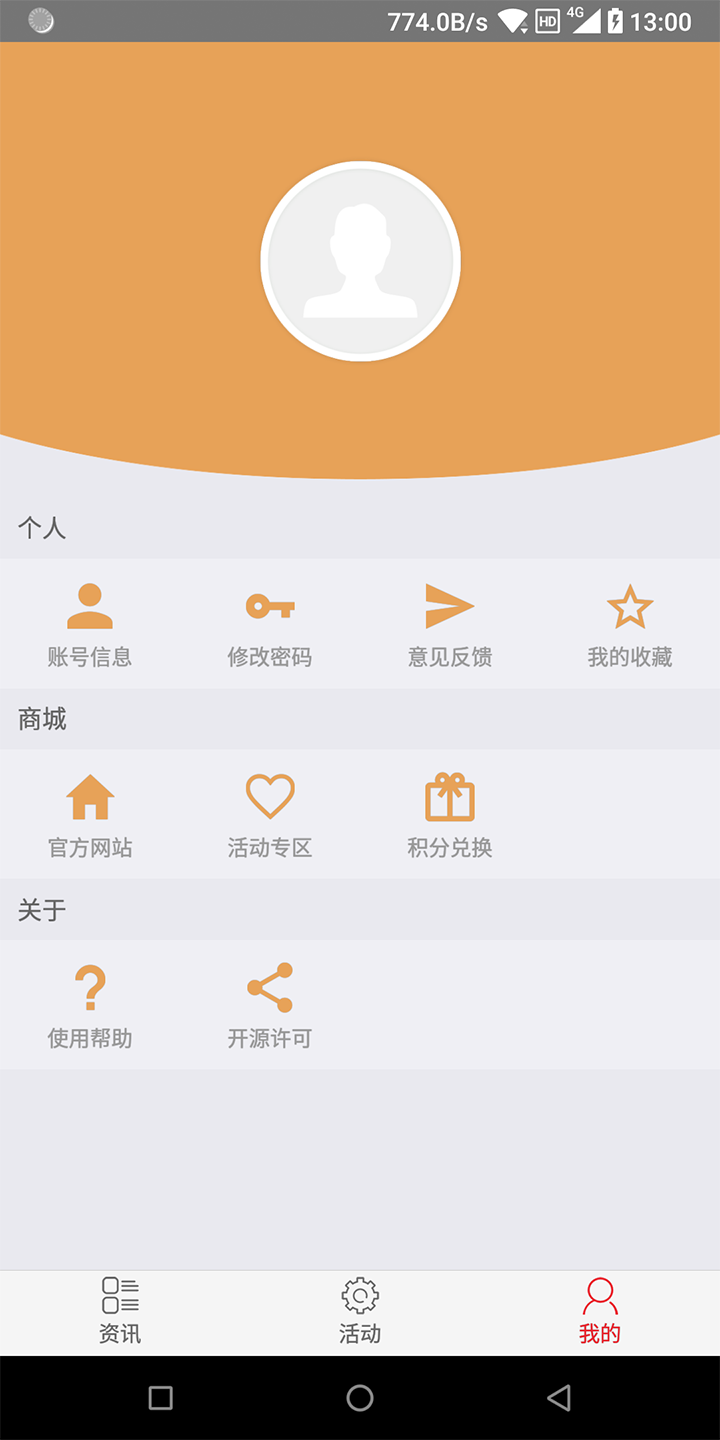
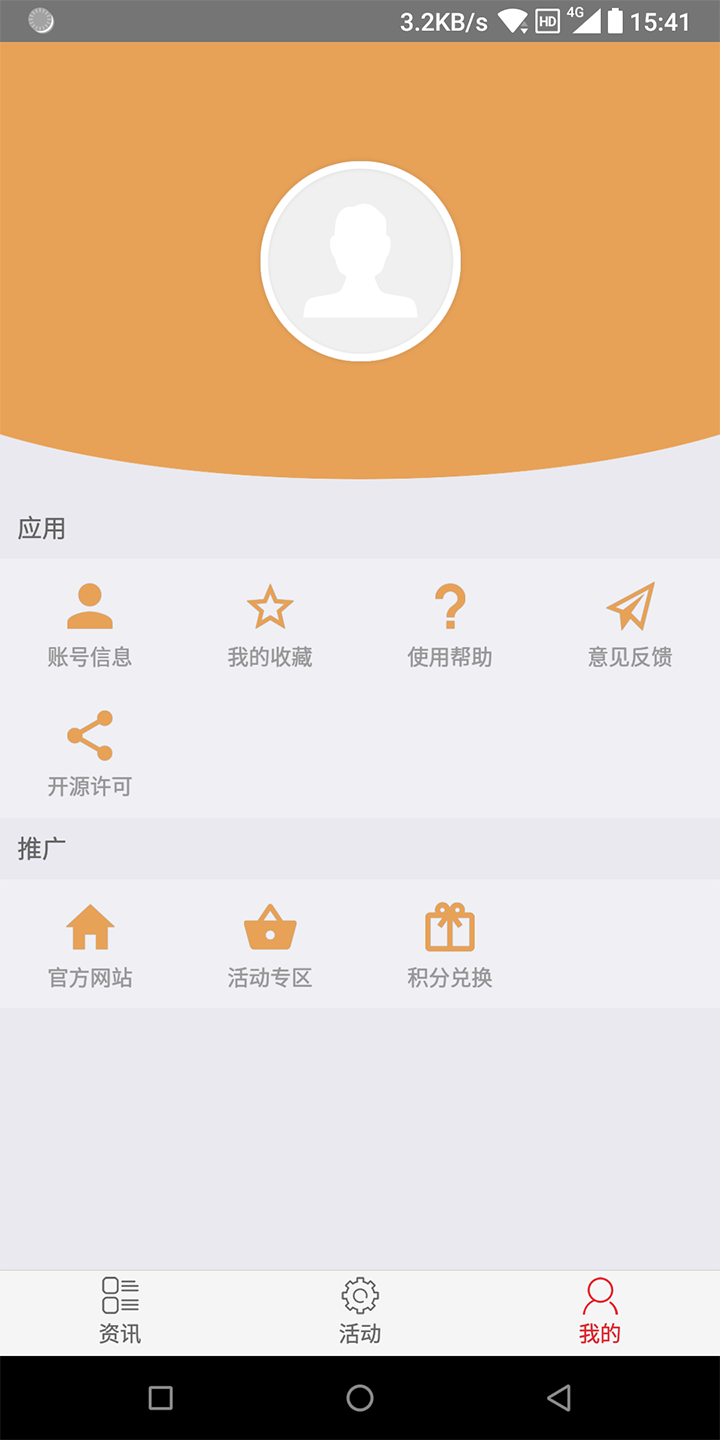
More page

diff --git a/app/Account.js b/app/Account.js
@@ -1,5 +1,13 @@
 import React from 'react';
-import { View, Text } from 'react-native';
+import {
+    View,
+    TouchableOpacity,
+    Text,
+    Image,
+    Alert,
+    StyleSheet
+} from 'react-native';
+import Icon from 'react-native-vector-icons/EvilIcons';
 
 export default class Detail extends React.Component {
     static navigationOptions = ({ navigation }) => {
@@ -14,7 +22,96 @@ export default class Detail extends React.Component {
 
     render() {
         return(
-            <View></View>
+            <View style={{flex: 1, backgroundColor: 'EFEFF4', marginTop: 25}}>
+                <TouchableOpacity style={styles.container}>
+                    <Text style={styles.containerLeft}>头像</Text>
+                    <View style={styles.containerRight}>
+                        <Image source={require('../images/avatar.png')} style={styles.containerImage}/>
+                    </View>
+                </TouchableOpacity>
+                <TouchableOpacity style={styles.container}>
+                    <Text style={styles.containerLeft}>昵称</Text>
+                    <Text style={styles.containerRight}>Null</Text>
+                </TouchableOpacity>
+                <TouchableOpacity style={styles.container}>
+                    <Text style={styles.containerLeft}>手机号</Text>
+                    <Text style={styles.containerRight}>158****1234</Text>
+                </TouchableOpacity>
+                <TouchableOpacity style={[styles.container, {marginTop: 20}]}>
+                    <Text style={styles.containerLeft}>性别</Text>
+                    <Text style={styles.containerRight}>保密</Text>
+                </TouchableOpacity>
+                <TouchableOpacity style={styles.container}>
+                    <Text style={styles.containerLeft}>生日</Text>
+                    <Text style={styles.containerRight}>1970年1月1日</Text>
+                </TouchableOpacity>
+                <TouchableOpacity style={styles.container}>
+                    <Text style={styles.containerLeft}>地址</Text>
+                    <Text numberOfLines={1} style={styles.containerRight}>未填写</Text>
+                </TouchableOpacity>
+                <TouchableOpacity style={[styles.container, {marginTop: 20}]}>
+                    <Text style={styles.containerLeft}>修改密码</Text>
+                    <Icon name="chevron-right" style={styles.containerIcon}/>
+                </TouchableOpacity>
+                <TouchableOpacity activeOpacity={0.8} style={styles.containerBottom} onPress={()=>this.logout()}>
+                    <Text style={styles.containerLeft}>退出登录</Text>
+                </TouchableOpacity>
+            </View>
         )
     }
+
+    // 退出登录
+    logout() {
+        Alert.alert('提示', '是否退出登录？', [
+            { text: '取消', onPress: () => {} },
+            { text: '确定', onPress: () => { this.props.navigation.navigate('Auth'); } }
+        ], {
+            cancelable: true
+        });
+    }
 }
+
+const styles = StyleSheet.create({
+    container: {
+        flexDirection: 'row',
+        alignItems: 'center',
+        paddingLeft: 10,
+        paddingRight: 10,
+        paddingTop: 15,
+        paddingBottom: 15,
+        backgroundColor: 'white',
+        marginBottom: 0.5 // 伪分隔线
+    },
+    containerLeft: {
+        flex: 1
+    },
+    containerRight: {
+        flex: 2,
+        textAlign: 'right',
+        flexDirection: 'row-reverse',
+        color: '#999'
+    },
+    containerImage: {
+        width: 60,
+        height: 60,
+    },
+    containerIcon: {
+        fontSize: 24,
+        color: '#999'
+    },
+    containerBottom: {
+        position: 'absolute',
+        bottom: 0,
+        justifyContent: 'center',
+        alignItems: 'center',
+        width: '100%',
+        paddingLeft: 10,
+        paddingRight: 10,
+        paddingTop: 15,
+        paddingBottom: 15,
+        backgroundColor: 'white',
+        fontWeight: 'bold',
+        borderTopColor: '#CECECE',
+        borderTopWidth: 0.5
+    }
+});

diff --git a/app/Login.js b/app/Login.js
@@ -7,7 +7,6 @@ import {
   Text,
   TextInput,
   TouchableOpacity,
-  ActivityIndicator,
   StyleSheet
 } from 'react-native';
 import Toast, { DURATION } from 'react-native-easy-toast'; // 目前这个库无法避免底部Toast被软键盘遮挡的问题
@@ -23,8 +22,7 @@ export default class Login extends Component {
     super(props);
     this.state = {
         username: "",
-        password: "",
-        isLogging: false
+        password: ""
     }
   }
 
@@ -32,10 +30,7 @@ export default class Login extends Component {
     return (
       <View style={styles.container}>
         {/*组件内部的注释方式*/}
-        <AnimeImage/>
-        <View style={{marginTop: 10, height: 60}}>
-          {this.state.isLogging? (<ActivityIndicator size='large'/>) : (null)}
-        </View>
+        <AnimeImage ref="animeImage"/>
         <TextInput
           placeholder="请输入用户名"
           clearButtonMode="while-editing"
@@ -87,12 +82,12 @@ export default class Login extends Component {
     if(this.state.password == '') {
         return this.refs.toast.show("请输入密码");
     }
-    this.setState({
-      isLogging: true
-    });
-    // 保存用户名密码
+
     AsyncStorageUtils.save("USERNAME", this.state.username);
     AsyncStorageUtils.save("PASSWORD", this.state.password);
+
+    // 正在登录
+    this.refs.animeImage.logging();
     // 跳转到主界面
     this.timer = setTimeout(() => {
       this.props.navigation.navigate('Main');
@@ -100,12 +95,12 @@ export default class Login extends Component {
   }
 
   randomTime() {
-    return Math.random() * 3 + 500; // 500~1500
+    return Math.random() * 1000 + 1000; // 1000~2000
   }
 
   componentDidMount() {
-    let that = this;
     // 获取用户名密码
+    let that = this;
     AsyncStorageUtils.get("USERNAME").then((value) => {
       that.setState({
         username: value
@@ -126,25 +121,27 @@ export default class Login extends Component {
 // 自定义动画组件
 class AnimeImage extends Component {
   state = {
-    // 初始值为0
-    ratation: new Animated.Value(0),
+    ratation: new Animated.Value(0), // 初始值为0
     scaling: new Animated.Value(0)
   }
 
   componentDidMount() {
-    // 同时执行动画
-    Animated.parallel([
-      // 随时间变化执行动画
+    // 随时间变化执行动画
+    Animated.timing(this.state.scaling, {
+      toValue: 1, // 最终值为1
+      duration: 1000,
+    }).start();
+  }
+
+  logging() {
+    // 循环动画
+    Animated.loop(
       Animated.timing(this.state.ratation, {
-        toValue: 1, // 最终值变为1
-        duration: 2200,
-        easing: Easing.linear
-      }),
-      Animated.timing(this.state.scaling, {
         toValue: 1,
-        duration: 1000,
+        duration: 2000,
+        easing: Easing.linear
       })
-    ]).start();
+    ).start();
   }
 
   render() {
@@ -176,7 +173,7 @@ const styles = StyleSheet.create({
   },
   logoStyle: {
     marginTop: 50,
-    marginBottom: 10
+    marginBottom: 70
   },
   inputStyle: {
     width: width * 0.9,

diff --git a/app/About.js b/app/About.js
@@ -15,17 +15,22 @@ import Icon from 'react-native-vector-icons/Ionicons';
 let exitTime = 0;
 
 const sectionData = [
-    { key: 0, title: "个人", data: [[{name: "账号信息", icon: 'md-person'}, {name: "修改密码", icon: 'md-key'}, {name: "意见反馈", icon: 'md-paper-plane'}, {name: "我的收藏", icon: 'md-star-outline'}]] },
-    { key: 1, title: "商城", data: [[{name: "官方网站", icon: 'md-home'}, {name: "活动专区", icon: 'md-heart-empty'}, {name: "积分兑换", icon: 'md-gift'}]] },
-    { key: 2, title: "关于", data: [[{name: "使用帮助", icon: 'md-help'}, {name: "开源许可", icon: 'md-share'}]] }
+    { key: 0, title: "应用", data: [[
+        {name: "账号信息", icon: 'md-person'}, 
+        {name: "我的收藏", icon: 'md-star-outline'}, 
+        {name: "使用帮助", icon: 'md-help'}, 
+        {name: "意见反馈", icon: 'md-paper-plane'}, 
+        {name: "开源许可", icon: 'md-share'}]]
+    }, { key: 1, title: "推广", data: [[
+        {name: "官方网站", icon: 'md-home'}, 
+        {name: "活动专区", icon: 'md-basket'}, 
+        {name: "积分兑换", icon: 'md-gift'}]]
+    }
 ];
 
 export default class About extends Component {
     static navigationOptions = {
         header: null
-        // headerTitle: (
-        //     <Text style={{flex: 1, textAlign: 'center', fontWeight: 'bold', fontSize: 18}}>我的</Text>
-        // ),
     }
 
     _didFocusSubscription;
@@ -57,7 +62,7 @@ export default class About extends Component {
     renderSectionHeader(title) {
         return(
             <View style={styles.sectionHeader}>
-                <Text style={styles.sectionHeaderText}>{title}</Text>
+                <Text style={styles.sectionHeaderText}>▎{title}</Text>
             </View>
         );
     }
@@ -126,12 +131,13 @@ const styles = StyleSheet.create({
         paddingLeft: 10
     },
     sectionHeaderText: {
-        color: '#666'
+        color: '#777'
     },
     sectionItem: {
         flexDirection: 'row',
         justifyContent: 'flex-start',
-        backgroundColor: '#EFEFF4'
+        backgroundColor: '#EFEFF4',
+        flexWrap: 'wrap'
     },
     sectionItemChild: {
         width: '25%',

diff --git a/app/Detail.js b/app/Detail.js
@@ -1,9 +1,9 @@
 import React from 'react';
 import { 
     WebView,
+    ActivityIndicator,
     View,
     TextInput,
-    Text,
     StyleSheet
 } from 'react-native';
 import Icon from 'react-native-vector-icons/Ionicons';
@@ -35,7 +35,11 @@ export default class Detail extends React.Component {
                     originWhitelist={['*']}
                     source={{html: content}}
                     injectedJavaScript={injectjs}
-                    style={{marginBottom: 50}} />
+                    style={{marginBottom: 50}}
+                    startInLoadingState={true}
+                    renderLoading={() => {
+                        return(<ActivityIndicator size='large'/>)
+                    }} />
                 <View style={styles.bottomBar}>
                     <TextInput
                         placeholder="评论"
@@ -43,7 +47,7 @@ export default class Detail extends React.Component {
                     <View style={styles.bottomIcons}>
                         <Icon name={this.state.favorited? "md-heart" : "md-heart-empty"} style={styles.bottomIcon} onPress={() => this.favorited()}/>
                         <Icon name="md-chatbubbles" style={styles.bottomIcon}/>
-                        <Icon name="md-share" style={styles.bottomIcon}/>
+                        <Icon name="md-thumbs-up" style={styles.bottomIcon}/>
                     </View>
                 </View>
             </View>

diff --git a/app/util/HttpUtils.js b/app/util/HttpUtils.js
@@ -35,14 +35,14 @@ export default class HttpUtils {
                 if(response.ok) {
                     return response.json();
                 } else {
-                    callback(false, response.status); //
+                    callback(false, response.status); // TBC
                 }
             })
             .then((response) => {
                 callback(true, response);
             })
             .catch((error) => {
-                callback(false, error); //
+                callback(false, error); // TBC
             })
         });
     }
@@ -65,14 +65,14 @@ export default class HttpUtils {
                 if(response.ok) {
                     return response.json();
                 } else {
-                    callback(false, response.status); //
+                    callback(false, response.status); // TBC
                 }
             })
             .then((response) => {
                 callback(true, response);
             })
             .catch((error) => {
-                callback(false, error); //
+                callback(false, error); // TBC
             })
         });
     }

diff --git a/app/Main.js b/app/Main.js
@@ -79,9 +79,14 @@ const MainStack = createStackNavigator({
 
 export default class Main extends React.Component {
     render() {
-        return <MainStack />;
+        return <MainStack navigation={this.props.navigation}/>;
     }
 };
+
+// 默认Account只能跳转到同级的Tabs、Detail，如果想跳转到父组件的路由
+// 要在父组件定义父.router=子.router，同时子组件赋navigation属性😑
+// 参考：https://www.cnblogs.com/fengyunyue/p/7596832.html
+Main.router = MainStack.router;
 
 const styles = StyleSheet.create({
     tabBarIcon: {
